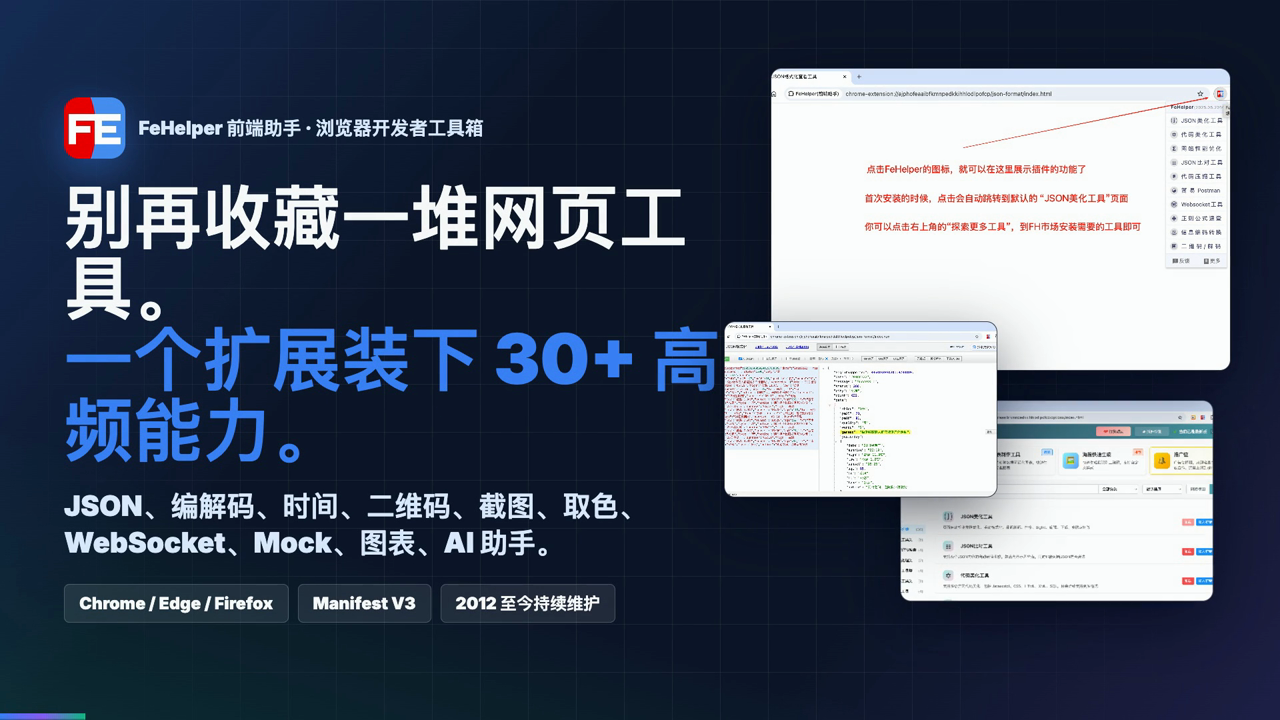
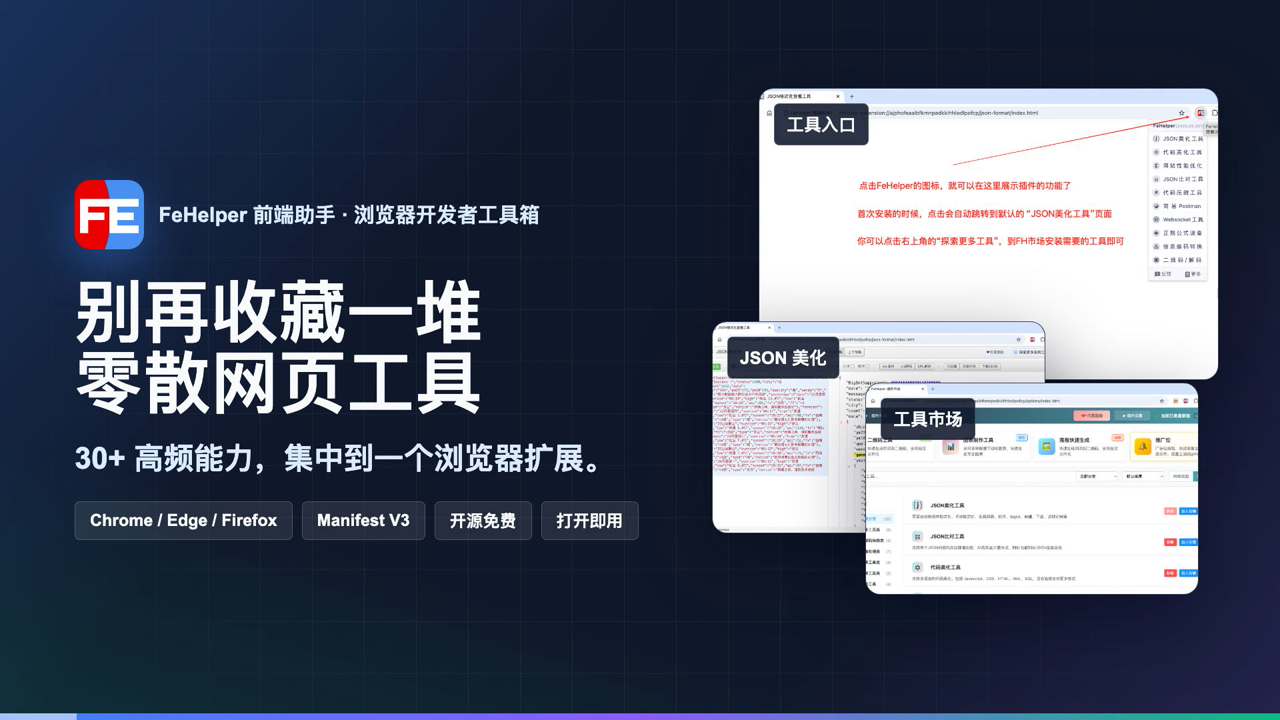
Regenerate promo video with Remotion voiceover

Changed region(s): [[0.0312, 0.0917, 0.9688, 0.8556], [0.0, 0.9778, 1.0, 1.0], [0.0625, 0.825, 0.4688, 0.8556]]

diff --git a/website/index.html b/website/index.html
@@ -217,7 +217,7 @@
     <section class="promo-video" aria-labelledby="promo-video-title">
       <div class="container">
         <div class="section-header">
-          <h2 id="promo-video-title">18 秒看懂 FeHelper</h2>
+          <h2 id="promo-video-title">20 秒看懂 FeHelper</h2>
           <p>把高频开发、调试、转换、生成工具集中到一个浏览器扩展里</p>
         </div>
         <div class="promo-video-frame">
@@ -1039,5 +1039,4 @@
     <script src="static/js/script.js?v=20260413"></script>
 </body>
 </html> 
-
 

diff --git a/README.md b/README.md
@@ -16,9 +16,9 @@
 
 **[English](README_EN.md) | [日本語](README_JA.md) | [한국어](README_KO.md)**
 
-[官网](https://fehelper.com) · [在线文档](https://fehelper.com/docs.html) · [Chrome 商店](https://chrome.google.com/webstore/detail/pkgccpejnmalmdinmhkkfafefagiiiad) · [问题反馈](https://github.com/zxlie/FeHelper/issues) · [观看 18 秒介绍视频](https://raw.githubusercontent.com/zxlie/FeHelper/master/website/static/video/fehelper-promo.mp4)
+[官网](https://fehelper.com) · [在线文档](https://fehelper.com/docs.html) · [Chrome 商店](https://chrome.google.com/webstore/detail/pkgccpejnmalmdinmhkkfafefagiiiad) · [问题反馈](https://github.com/zxlie/FeHelper/issues) · [观看 20 秒介绍视频](https://raw.githubusercontent.com/zxlie/FeHelper/master/website/static/video/fehelper-promo.mp4)
 
-[![FeHelper 18 秒介绍视频](website/static/video/fehelper-promo.gif)](https://raw.githubusercontent.com/zxlie/FeHelper/master/website/static/video/fehelper-promo.mp4)
+[![FeHelper 20 秒介绍视频](website/static/video/fehelper-promo.gif)](https://raw.githubusercontent.com/zxlie/FeHelper/master/website/static/video/fehelper-promo.mp4)
 
 </div>
 